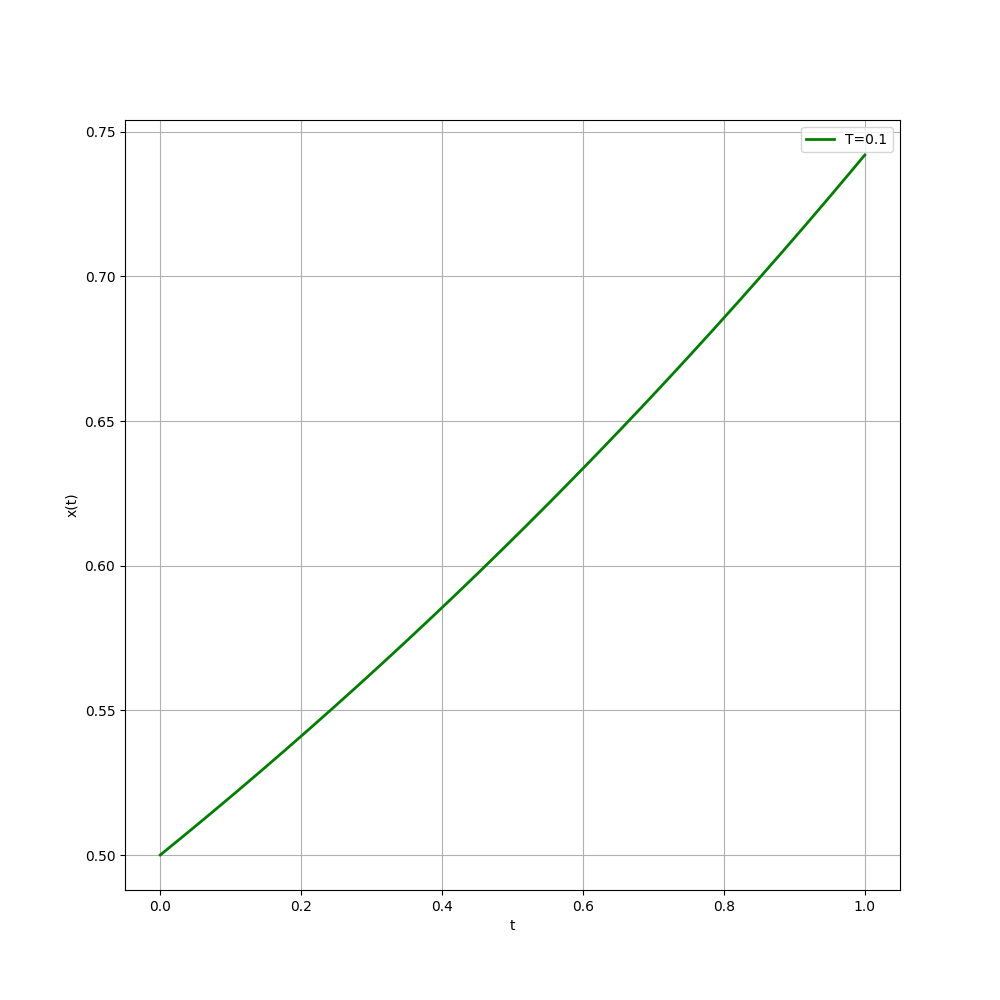
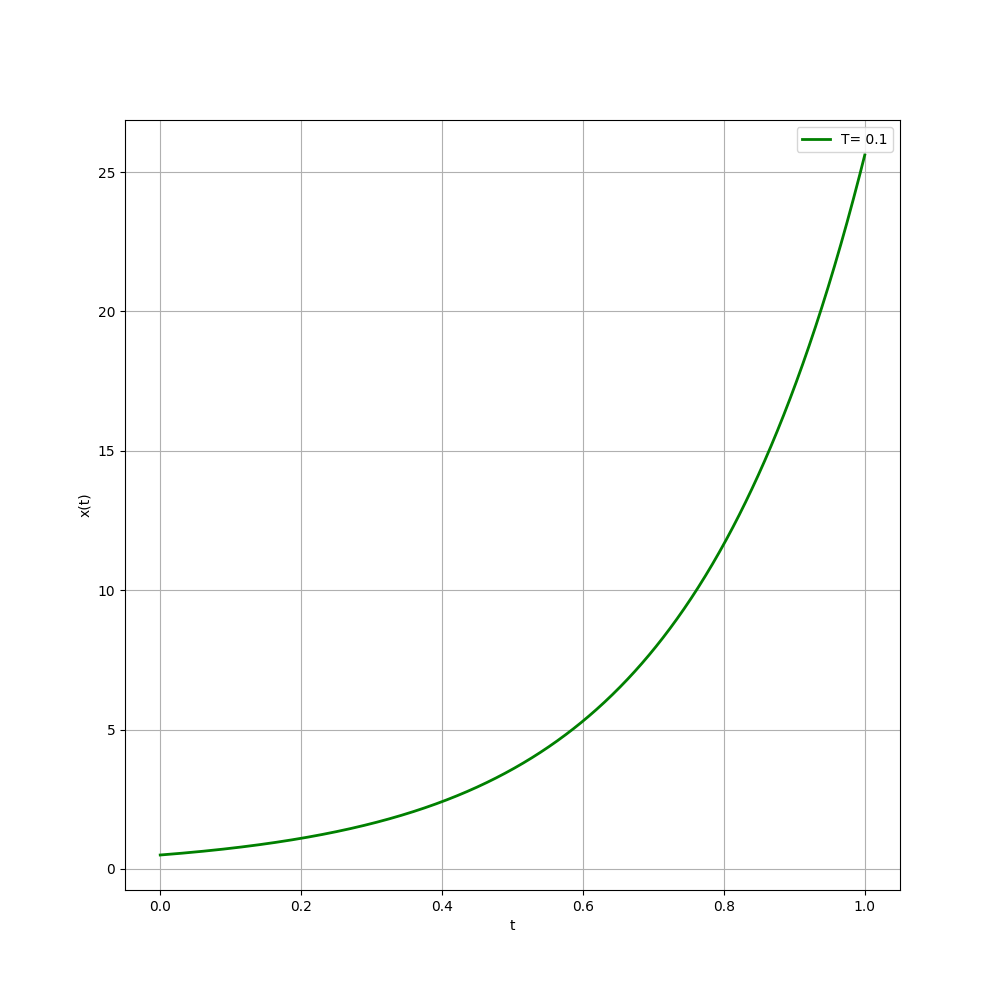
lab 9 complete

diff --git a/lab 9/q1.py b/lab 9/q1.py
@@ -7,20 +7,20 @@ from sympy import symbols, diff
 import sympy
 
 
-dt = 0.001
+dt = 0.1
 
 
-x0 = 0
-v0 = 1
+x0 = 1
+v0 = 0
 
 fig = plt.figure(figsize=(10, 10))
 
 TLOW = 0
-THIGH = 10
+THIGH = 100
 DT = int((1 / dt) *(THIGH - TLOW))
 
 # k = omega^2
-T=1
+T=10
 om = 2*math.pi/T
 k = om*om
 
@@ -66,10 +66,13 @@ def euler(t, dt, order,k):
 
 ans_x,ans_v,et = euler(t, dt, 1,k)
 
-plt.plot(t, ans_x, color='blue', label=(f"T= {T}"), linewidth=2)
-plt.plot(t, ans_v, color='red', label=(f"T= {T}"), linewidth=2)
-#plt.plot(ans_x, ans_v, label=(f"T= {T}"), linewidth=2)
-#plt.plot(t, et, color='green', label=(f"T= {T}"), linewidth=2)
+loget= np.log(et)
+
+# plt.plot(t, ans_x, color='blue', label=(f"X"), linewidth=2)
+# plt.plot(t, ans_v, color='red', label=(f"V"), linewidth=2)
+# plt.plot(ans_x, ans_v, label=(f"T= {T}"), linewidth=2)
+# plt.plot(t, et, color='green', label=(f"T= {T}"), linewidth=2)
+plt.plot(t, loget, color='green', label=(f"T= {T}"), linewidth=2)
 
 t1 = np.linspace(TLOW, THIGH, DT)
 
@@ -94,5 +97,5 @@ plt.xlabel('t')
 plt.ylabel('x(t)')
 plt.legend()
 plt.grid()
-plt.savefig('q1a_1.png')
+plt.savefig('q1cc_4.png')
 plt.show()
